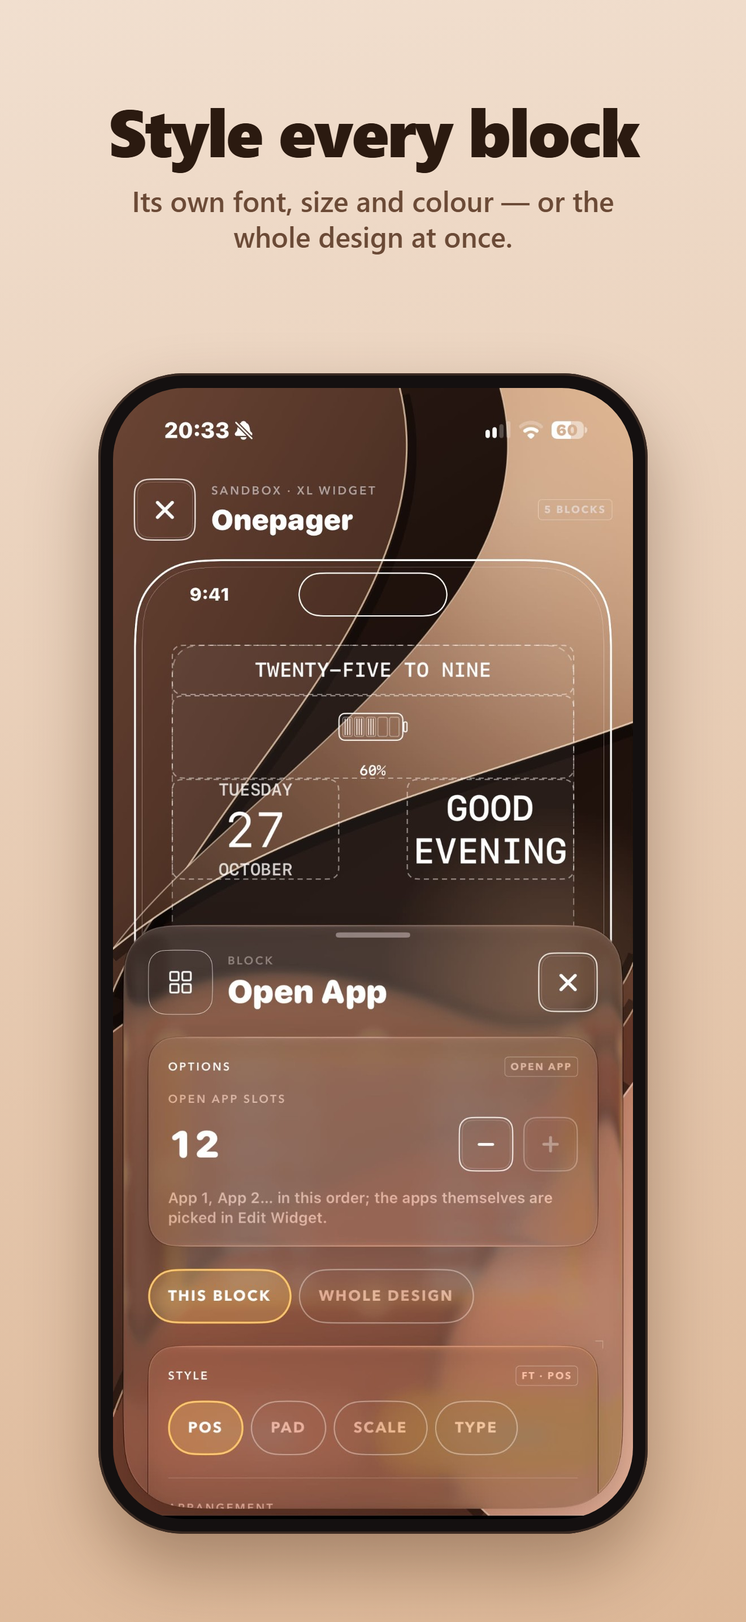
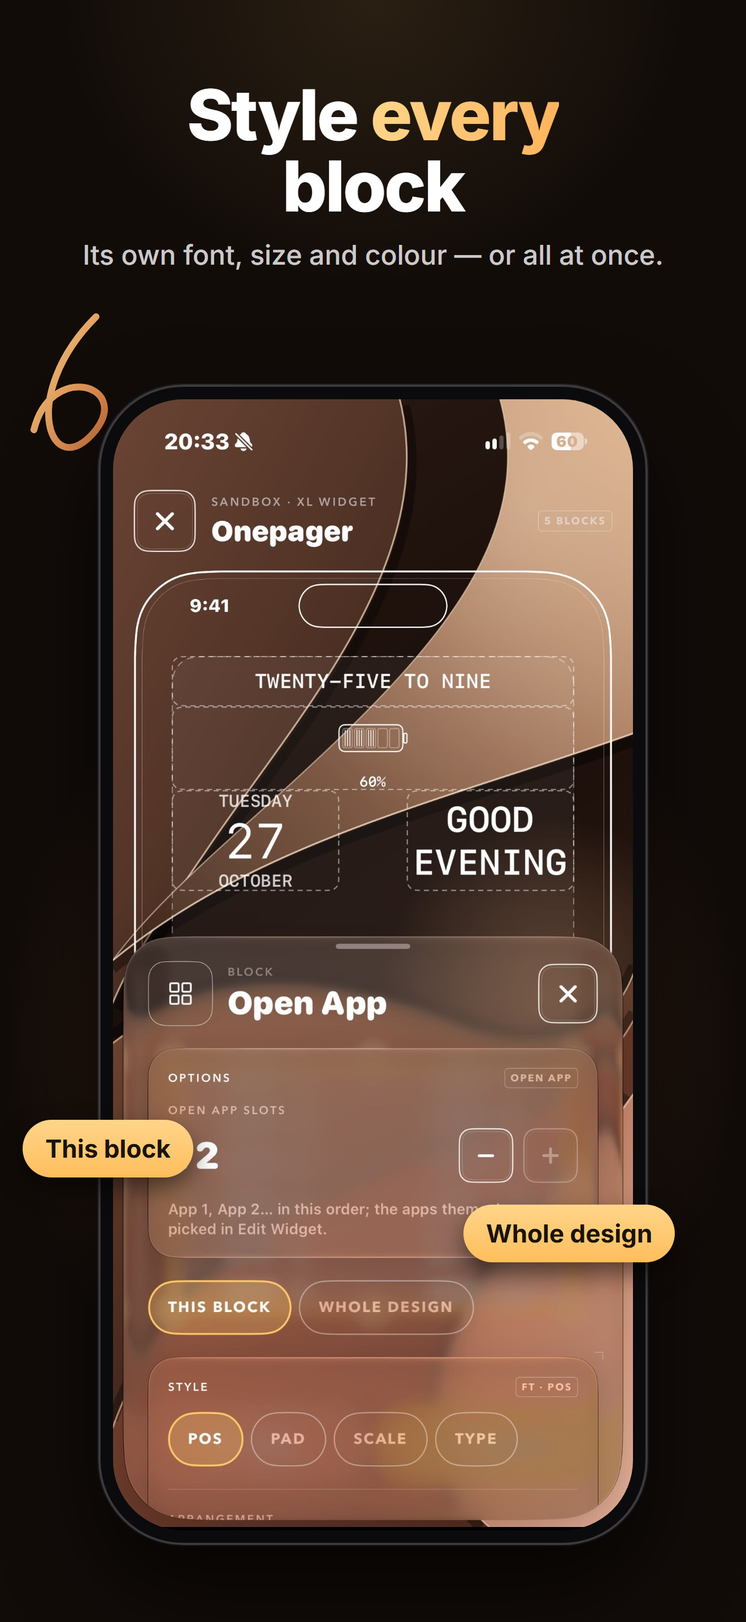
Screenshots v2 in the listing's style (dark stage, amber ribbon and pills); 1206 x 2622 copies

diff --git a/AppStore/screenshots/v2/src/1-designer.html b/AppStore/screenshots/v2/src/1-designer.html
@@ -1,25 +1,27 @@
-<!doctype html>
-<html><head><meta charset="utf-8"><title>Build your own widget</title>
+<!doctype html><html lang="en"><head><meta charset="utf-8"><title>1-designer</title>
+<link rel="stylesheet" href="https://fonts.googleapis.com/css2?family=Inter:wght@500;700;800&display=swap">
 <style>
-  html, body { margin: 0; width: 1320px; height: 2868px; overflow: hidden; }
-  body {
-    background: linear-gradient(170deg, #F3E3D3 0%, #E7C9AE 100%);
-    font-family: "Segoe UI", "SF Pro Display", Arial, sans-serif;
-    color: #2B1A10;
-    position: relative;
-  }
-  .copy { position: absolute; top: 170px; left: 110px; right: 110px; text-align: center; }
-  h1 { margin: 0; font-size: 118px; line-height: 1.02; font-weight: 900; letter-spacing: -3px; }
-  p { margin: 34px auto 0; max-width: 1000px; font-size: 50px; line-height: 1.25; font-weight: 600; color: #6B4A36; }
-  .phone {
-    position: absolute; left: 50%; top: 660px; transform: translateX(-50%);
-    width: 920px; height: 2000px; padding: 26px;
-    background: #141010; border-radius: 150px;
-    box-shadow: 0 60px 120px rgba(60, 30, 10, 0.35), 0 0 0 4px #3A2A22 inset;
-  }
-  .phone img { display: block; width: 920px; height: 2000px; border-radius: 126px; }
-</style></head>
-<body>
-  <div class="copy"><h1>Build your own widget</h1><p>Clocks, dates, greetings and up to 12 apps — placed where you want them.</p></div>
-  <div class="phone"><img src="../raw/1-designer.jpg" alt=""></div>
+*{box-sizing:border-box}
+body{margin:0;width:1320px;height:2868px;overflow:hidden;position:relative;font-family:Inter,-apple-system,sans-serif;color:#fff;
+ background:radial-gradient(70% 38% at 50% 64%,rgba(214,120,70,.30) 0%,rgba(214,120,70,0) 70%),radial-gradient(60% 25% at 50% 0%,rgba(255,199,102,.10) 0%,rgba(255,199,102,0) 70%),#120c09}
+.head{position:absolute;top:140px;left:0;right:0;text-align:center;padding:0 70px;z-index:6}
+h1{font-size:124px;line-height:1.02;font-weight:800;letter-spacing:-3.5px;margin:0}
+h1 em{font-style:normal;background:linear-gradient(90deg,#FFD58A,#FFB45C);-webkit-background-clip:text;background-clip:text;color:transparent}
+.sub{font-size:48px;line-height:1.25;margin:28px 0 0;color:rgba(255,255,255,.78);font-weight:500}
+.ribbon{position:absolute;inset:0;z-index:1;pointer-events:none}
+.phone{position:absolute;left:174px;top:640px;width:972px;height:2052px;border-radius:150px;background:#0b0b0d;padding:26px;z-index:2;
+ box-shadow:0 80px 160px rgba(0,0,0,.65),0 0 0 2px rgba(255,255,255,.08),inset 0 0 0 4px #3b3a3f}
+.phone img{display:block;width:920px;height:2000px;border-radius:124px}
+.pill{position:absolute;z-index:8;padding:24px 40px;border-radius:999px;font-size:44px;font-weight:700;white-space:nowrap;box-shadow:0 20px 44px rgba(0,0,0,.5);
+ background:linear-gradient(180deg,#FFD58A,#FFBE5C);color:#1A1306}
+.badges{position:absolute;left:0;right:0;top:2740px;display:flex;justify-content:center;gap:22px;z-index:8}
+.badges span{padding:18px 32px;border-radius:999px;font-size:36px;font-weight:700;background:rgba(18,12,9,.85);border:2px solid rgba(255,255,255,.22);color:#fff}
+.badges span b{color:#FFC766}
+</style></head><body>
+<svg class="ribbon" width="1320" height="2868" viewBox="0 0 1320 2868"><defs><linearGradient id="rb" x1="0" y1="0" x2="1" y2="1"><stop offset="0" stop-color="#FFD58A"/><stop offset="1" stop-color="#D9783E"/></linearGradient></defs><path d="M1150 560 C 1290 700, 1230 860, 1150 760 C 1090 680, 1230 640, 1260 760" fill="none" stroke="url(#rb)" stroke-width="12" stroke-linecap="round" opacity=".95"/></svg>
+<div class="head"><h1>Build <em>your own</em><br>widget</h1><p class="sub">Clocks, dates, greetings and up to 12 apps.</p></div>
+<div class="phone"><img src="../raw/1-designer.jpg" alt=""></div>
+<div class="pill" style="left:760px;top:1180px">Drag &#183; resize &#183; save</div>
+<div class="pill" style="left:40px;top:2140px">Up to 12 apps</div>
+<div class="badges"><span><b>iOS 27</b></span><span>Liquid Glass</span><span>No ads</span></div>
 </body></html>

diff --git a/AppStore/screenshots/v2/src/5-settings.html b/AppStore/screenshots/v2/src/5-settings.html
@@ -1,25 +1,26 @@
-<!doctype html>
-<html><head><meta charset="utf-8"><title>Matched to your wallpaper</title>
+<!doctype html><html lang="en"><head><meta charset="utf-8"><title>5-settings</title>
+<link rel="stylesheet" href="https://fonts.googleapis.com/css2?family=Inter:wght@500;700;800&display=swap">
 <style>
-  html, body { margin: 0; width: 1320px; height: 2868px; overflow: hidden; }
-  body {
-    background: linear-gradient(170deg, #F3E4D6 0%, #E0BE9F 100%);
-    font-family: "Segoe UI", "SF Pro Display", Arial, sans-serif;
-    color: #2B1A10;
-    position: relative;
-  }
-  .copy { position: absolute; top: 170px; left: 110px; right: 110px; text-align: center; }
-  h1 { margin: 0; font-size: 118px; line-height: 1.02; font-weight: 900; letter-spacing: -3px; }
-  p { margin: 34px auto 0; max-width: 1000px; font-size: 50px; line-height: 1.25; font-weight: 600; color: #6B4A36; }
-  .phone {
-    position: absolute; left: 50%; top: 660px; transform: translateX(-50%);
-    width: 920px; height: 2000px; padding: 26px;
-    background: #141010; border-radius: 150px;
-    box-shadow: 0 60px 120px rgba(60, 30, 10, 0.35), 0 0 0 4px #3A2A22 inset;
-  }
-  .phone img { display: block; width: 920px; height: 2000px; border-radius: 126px; }
-</style></head>
-<body>
-  <div class="copy"><h1>Matched to your wallpaper</h1><p>Two screenshots, and every widget blends into your Home Screen.</p></div>
-  <div class="phone"><img src="../raw/5-settings.jpg" alt=""></div>
+*{box-sizing:border-box}
+body{margin:0;width:1320px;height:2868px;overflow:hidden;position:relative;font-family:Inter,-apple-system,sans-serif;color:#fff;
+ background:radial-gradient(70% 38% at 50% 64%,rgba(214,120,70,.30) 0%,rgba(214,120,70,0) 70%),radial-gradient(60% 25% at 50% 0%,rgba(255,199,102,.10) 0%,rgba(255,199,102,0) 70%),#120c09}
+.head{position:absolute;top:140px;left:0;right:0;text-align:center;padding:0 70px;z-index:6}
+h1{font-size:124px;line-height:1.02;font-weight:800;letter-spacing:-3.5px;margin:0}
+h1 em{font-style:normal;background:linear-gradient(90deg,#FFD58A,#FFB45C);-webkit-background-clip:text;background-clip:text;color:transparent}
+.sub{font-size:48px;line-height:1.25;margin:28px 0 0;color:rgba(255,255,255,.78);font-weight:500}
+.ribbon{position:absolute;inset:0;z-index:1;pointer-events:none}
+.phone{position:absolute;left:174px;top:640px;width:972px;height:2052px;border-radius:150px;background:#0b0b0d;padding:26px;z-index:2;
+ box-shadow:0 80px 160px rgba(0,0,0,.65),0 0 0 2px rgba(255,255,255,.08),inset 0 0 0 4px #3b3a3f}
+.phone img{display:block;width:920px;height:2000px;border-radius:124px}
+.pill{position:absolute;z-index:8;padding:24px 40px;border-radius:999px;font-size:44px;font-weight:700;white-space:nowrap;box-shadow:0 20px 44px rgba(0,0,0,.5);
+ background:linear-gradient(180deg,#FFD58A,#FFBE5C);color:#1A1306}
+.badges{position:absolute;left:0;right:0;top:2740px;display:flex;justify-content:center;gap:22px;z-index:8}
+.badges span{padding:18px 32px;border-radius:999px;font-size:36px;font-weight:700;background:rgba(18,12,9,.85);border:2px solid rgba(255,255,255,.22);color:#fff}
+.badges span b{color:#FFC766}
+</style></head><body>
+<svg class="ribbon" width="1320" height="2868" viewBox="0 0 1320 2868"><defs><linearGradient id="rb" x1="0" y1="0" x2="1" y2="1"><stop offset="0" stop-color="#FFD58A"/><stop offset="1" stop-color="#D9783E"/></linearGradient></defs><path d="M1150 560 C 1290 700, 1230 860, 1150 760 C 1090 680, 1230 640, 1260 760" fill="none" stroke="url(#rb)" stroke-width="12" stroke-linecap="round" opacity=".95"/></svg>
+<div class="head"><h1>Matched to your<br><em>wallpaper</em></h1><p class="sub">Two screenshots, and every widget blends in.</p></div>
+<div class="phone"><img src="../raw/5-settings.jpg" alt=""></div>
+<div class="pill" style="left:790px;top:1520px">Light &amp; Dark Mode</div>
+<div class="badges"><span>No account</span><span>No tracking</span><span><b>Public API</b></span></div>
 </body></html>

diff --git a/AppStore/screenshots/v2/src/2-block-style.html b/AppStore/screenshots/v2/src/2-block-style.html
@@ -1,25 +1,27 @@
-<!doctype html>
-<html><head><meta charset="utf-8"><title>Style every block</title>
+<!doctype html><html lang="en"><head><meta charset="utf-8"><title>2-block-style</title>
+<link rel="stylesheet" href="https://fonts.googleapis.com/css2?family=Inter:wght@500;700;800&display=swap">
 <style>
-  html, body { margin: 0; width: 1320px; height: 2868px; overflow: hidden; }
-  body {
-    background: linear-gradient(170deg, #F1DFCF 0%, #DDB898 100%);
-    font-family: "Segoe UI", "SF Pro Display", Arial, sans-serif;
-    color: #2B1A10;
-    position: relative;
-  }
-  .copy { position: absolute; top: 170px; left: 110px; right: 110px; text-align: center; }
-  h1 { margin: 0; font-size: 118px; line-height: 1.02; font-weight: 900; letter-spacing: -3px; }
-  p { margin: 34px auto 0; max-width: 1000px; font-size: 50px; line-height: 1.25; font-weight: 600; color: #6B4A36; }
-  .phone {
-    position: absolute; left: 50%; top: 660px; transform: translateX(-50%);
-    width: 920px; height: 2000px; padding: 26px;
-    background: #141010; border-radius: 150px;
-    box-shadow: 0 60px 120px rgba(60, 30, 10, 0.35), 0 0 0 4px #3A2A22 inset;
-  }
-  .phone img { display: block; width: 920px; height: 2000px; border-radius: 126px; }
-</style></head>
-<body>
-  <div class="copy"><h1>Style every block</h1><p>Its own font, size and colour — or the whole design at once.</p></div>
-  <div class="phone"><img src="../raw/2-block-style.jpg" alt=""></div>
+*{box-sizing:border-box}
+body{margin:0;width:1320px;height:2868px;overflow:hidden;position:relative;font-family:Inter,-apple-system,sans-serif;color:#fff;
+ background:radial-gradient(70% 38% at 50% 64%,rgba(214,120,70,.30) 0%,rgba(214,120,70,0) 70%),radial-gradient(60% 25% at 50% 0%,rgba(255,199,102,.10) 0%,rgba(255,199,102,0) 70%),#120c09}
+.head{position:absolute;top:140px;left:0;right:0;text-align:center;padding:0 70px;z-index:6}
+h1{font-size:124px;line-height:1.02;font-weight:800;letter-spacing:-3.5px;margin:0}
+h1 em{font-style:normal;background:linear-gradient(90deg,#FFD58A,#FFB45C);-webkit-background-clip:text;background-clip:text;color:transparent}
+.sub{font-size:48px;line-height:1.25;margin:28px 0 0;color:rgba(255,255,255,.78);font-weight:500}
+.ribbon{position:absolute;inset:0;z-index:1;pointer-events:none}
+.phone{position:absolute;left:174px;top:680px;width:972px;height:2052px;border-radius:150px;background:#0b0b0d;padding:26px;z-index:2;
+ box-shadow:0 80px 160px rgba(0,0,0,.65),0 0 0 2px rgba(255,255,255,.08),inset 0 0 0 4px #3b3a3f}
+.phone img{display:block;width:920px;height:2000px;border-radius:124px}
+.pill{position:absolute;z-index:8;padding:24px 40px;border-radius:999px;font-size:44px;font-weight:700;white-space:nowrap;box-shadow:0 20px 44px rgba(0,0,0,.5);
+ background:linear-gradient(180deg,#FFD58A,#FFBE5C);color:#1A1306}
+.badges{position:absolute;left:0;right:0;top:2740px;display:flex;justify-content:center;gap:22px;z-index:8}
+.badges span{padding:18px 32px;border-radius:999px;font-size:36px;font-weight:700;background:rgba(18,12,9,.85);border:2px solid rgba(255,255,255,.22);color:#fff}
+.badges span b{color:#FFC766}
+</style></head><body>
+<svg class="ribbon" width="1320" height="2868" viewBox="0 0 1320 2868"><defs><linearGradient id="rb" x1="0" y1="0" x2="1" y2="1"><stop offset="0" stop-color="#FFD58A"/><stop offset="1" stop-color="#D9783E"/></linearGradient></defs><path d="M170 560 C 30 700, 90 860, 170 760 C 230 680, 90 640, 60 760" fill="none" stroke="url(#rb)" stroke-width="12" stroke-linecap="round" opacity=".95"/></svg>
+<div class="head"><h1>Style <em>every</em><br>block</h1><p class="sub">Its own font, size and colour — or all at once.</p></div>
+<div class="phone"><img src="../raw/2-block-style.jpg" alt=""></div>
+<div class="pill" style="left:40px;top:1980px">This block</div>
+<div class="pill" style="left:820px;top:2130px">Whole design</div>
+
 </body></html>

diff --git a/AppStore/screenshots/v2/src/3-templates.html b/AppStore/screenshots/v2/src/3-templates.html
@@ -1,25 +1,26 @@
-<!doctype html>
-<html><head><meta charset="utf-8"><title>Start from a template</title>
+<!doctype html><html lang="en"><head><meta charset="utf-8"><title>3-templates</title>
+<link rel="stylesheet" href="https://fonts.googleapis.com/css2?family=Inter:wght@500;700;800&display=swap">
 <style>
-  html, body { margin: 0; width: 1320px; height: 2868px; overflow: hidden; }
-  body {
-    background: linear-gradient(170deg, #F4E6D8 0%, #E3C2A4 100%);
-    font-family: "Segoe UI", "SF Pro Display", Arial, sans-serif;
-    color: #2B1A10;
-    position: relative;
-  }
-  .copy { position: absolute; top: 170px; left: 110px; right: 110px; text-align: center; }
-  h1 { margin: 0; font-size: 118px; line-height: 1.02; font-weight: 900; letter-spacing: -3px; }
-  p { margin: 34px auto 0; max-width: 1000px; font-size: 50px; line-height: 1.25; font-weight: 600; color: #6B4A36; }
-  .phone {
-    position: absolute; left: 50%; top: 660px; transform: translateX(-50%);
-    width: 920px; height: 2000px; padding: 26px;
-    background: #141010; border-radius: 150px;
-    box-shadow: 0 60px 120px rgba(60, 30, 10, 0.35), 0 0 0 4px #3A2A22 inset;
-  }
-  .phone img { display: block; width: 920px; height: 2000px; border-radius: 126px; }
-</style></head>
-<body>
-  <div class="copy"><h1>Start from a template</h1><p>Blank, clock hubs, app grids, type specimens and more.</p></div>
-  <div class="phone"><img src="../raw/3-templates.jpg" alt=""></div>
+*{box-sizing:border-box}
+body{margin:0;width:1320px;height:2868px;overflow:hidden;position:relative;font-family:Inter,-apple-system,sans-serif;color:#fff;
+ background:radial-gradient(70% 38% at 50% 64%,rgba(214,120,70,.30) 0%,rgba(214,120,70,0) 70%),radial-gradient(60% 25% at 50% 0%,rgba(255,199,102,.10) 0%,rgba(255,199,102,0) 70%),#120c09}
+.head{position:absolute;top:140px;left:0;right:0;text-align:center;padding:0 70px;z-index:6}
+h1{font-size:124px;line-height:1.02;font-weight:800;letter-spacing:-3.5px;margin:0}
+h1 em{font-style:normal;background:linear-gradient(90deg,#FFD58A,#FFB45C);-webkit-background-clip:text;background-clip:text;color:transparent}
+.sub{font-size:48px;line-height:1.25;margin:28px 0 0;color:rgba(255,255,255,.78);font-weight:500}
+.ribbon{position:absolute;inset:0;z-index:1;pointer-events:none}
+.phone{position:absolute;left:174px;top:680px;width:972px;height:2052px;border-radius:150px;background:#0b0b0d;padding:26px;z-index:2;
+ box-shadow:0 80px 160px rgba(0,0,0,.65),0 0 0 2px rgba(255,255,255,.08),inset 0 0 0 4px #3b3a3f}
+.phone img{display:block;width:920px;height:2000px;border-radius:124px}
+.pill{position:absolute;z-index:8;padding:24px 40px;border-radius:999px;font-size:44px;font-weight:700;white-space:nowrap;box-shadow:0 20px 44px rgba(0,0,0,.5);
+ background:linear-gradient(180deg,#FFD58A,#FFBE5C);color:#1A1306}
+.badges{position:absolute;left:0;right:0;top:2740px;display:flex;justify-content:center;gap:22px;z-index:8}
+.badges span{padding:18px 32px;border-radius:999px;font-size:36px;font-weight:700;background:rgba(18,12,9,.85);border:2px solid rgba(255,255,255,.22);color:#fff}
+.badges span b{color:#FFC766}
+</style></head><body>
+<svg class="ribbon" width="1320" height="2868" viewBox="0 0 1320 2868"><defs><linearGradient id="rb" x1="0" y1="0" x2="1" y2="1"><stop offset="0" stop-color="#FFD58A"/><stop offset="1" stop-color="#D9783E"/></linearGradient></defs><path d="M1150 560 C 1290 700, 1230 860, 1150 760 C 1090 680, 1230 640, 1260 760" fill="none" stroke="url(#rb)" stroke-width="12" stroke-linecap="round" opacity=".95"/></svg>
+<div class="head"><h1>Start from a<br><em>template</em></h1><p class="sub">Blank, clock hubs, app grids, type and more.</p></div>
+<div class="phone"><img src="../raw/3-templates.jpg" alt=""></div>
+<div class="pill" style="left:780px;top:1500px">Ready in one tap</div>
+
 </body></html>

diff --git a/AppStore/screenshots/v2/src/4-home.html b/AppStore/screenshots/v2/src/4-home.html
@@ -1,25 +1,26 @@
-<!doctype html>
-<html><head><meta charset="utf-8"><title>All your designs in one place</title>
+<!doctype html><html lang="en"><head><meta charset="utf-8"><title>4-home</title>
+<link rel="stylesheet" href="https://fonts.googleapis.com/css2?family=Inter:wght@500;700;800&display=swap">
 <style>
-  html, body { margin: 0; width: 1320px; height: 2868px; overflow: hidden; }
-  body {
-    background: linear-gradient(170deg, #F2E1D1 0%, #D9B392 100%);
-    font-family: "Segoe UI", "SF Pro Display", Arial, sans-serif;
-    color: #2B1A10;
-    position: relative;
-  }
-  .copy { position: absolute; top: 170px; left: 110px; right: 110px; text-align: center; }
-  h1 { margin: 0; font-size: 118px; line-height: 1.02; font-weight: 900; letter-spacing: -3px; }
-  p { margin: 34px auto 0; max-width: 1000px; font-size: 50px; line-height: 1.25; font-weight: 600; color: #6B4A36; }
-  .phone {
-    position: absolute; left: 50%; top: 660px; transform: translateX(-50%);
-    width: 920px; height: 2000px; padding: 26px;
-    background: #141010; border-radius: 150px;
-    box-shadow: 0 60px 120px rgba(60, 30, 10, 0.35), 0 0 0 4px #3A2A22 inset;
-  }
-  .phone img { display: block; width: 920px; height: 2000px; border-radius: 126px; }
-</style></head>
-<body>
-  <div class="copy"><h1>All your designs in one place</h1><p>Pick one per widget: touch and hold › Edit Widget.</p></div>
-  <div class="phone"><img src="../raw/4-home.jpg" alt=""></div>
+*{box-sizing:border-box}
+body{margin:0;width:1320px;height:2868px;overflow:hidden;position:relative;font-family:Inter,-apple-system,sans-serif;color:#fff;
+ background:radial-gradient(70% 38% at 50% 64%,rgba(214,120,70,.30) 0%,rgba(214,120,70,0) 70%),radial-gradient(60% 25% at 50% 0%,rgba(255,199,102,.10) 0%,rgba(255,199,102,0) 70%),#120c09}
+.head{position:absolute;top:140px;left:0;right:0;text-align:center;padding:0 70px;z-index:6}
+h1{font-size:124px;line-height:1.02;font-weight:800;letter-spacing:-3.5px;margin:0}
+h1 em{font-style:normal;background:linear-gradient(90deg,#FFD58A,#FFB45C);-webkit-background-clip:text;background-clip:text;color:transparent}
+.sub{font-size:48px;line-height:1.25;margin:28px 0 0;color:rgba(255,255,255,.78);font-weight:500}
+.ribbon{position:absolute;inset:0;z-index:1;pointer-events:none}
+.phone{position:absolute;left:174px;top:680px;width:972px;height:2052px;border-radius:150px;background:#0b0b0d;padding:26px;z-index:2;
+ box-shadow:0 80px 160px rgba(0,0,0,.65),0 0 0 2px rgba(255,255,255,.08),inset 0 0 0 4px #3b3a3f}
+.phone img{display:block;width:920px;height:2000px;border-radius:124px}
+.pill{position:absolute;z-index:8;padding:24px 40px;border-radius:999px;font-size:44px;font-weight:700;white-space:nowrap;box-shadow:0 20px 44px rgba(0,0,0,.5);
+ background:linear-gradient(180deg,#FFD58A,#FFBE5C);color:#1A1306}
+.badges{position:absolute;left:0;right:0;top:2740px;display:flex;justify-content:center;gap:22px;z-index:8}
+.badges span{padding:18px 32px;border-radius:999px;font-size:36px;font-weight:700;background:rgba(18,12,9,.85);border:2px solid rgba(255,255,255,.22);color:#fff}
+.badges span b{color:#FFC766}
+</style></head><body>
+<svg class="ribbon" width="1320" height="2868" viewBox="0 0 1320 2868"><defs><linearGradient id="rb" x1="0" y1="0" x2="1" y2="1"><stop offset="0" stop-color="#FFD58A"/><stop offset="1" stop-color="#D9783E"/></linearGradient></defs><path d="M170 560 C 30 700, 90 860, 170 760 C 230 680, 90 640, 60 760" fill="none" stroke="url(#rb)" stroke-width="12" stroke-linecap="round" opacity=".95"/></svg>
+<div class="head"><h1>All your designs,<br><em>one place</em></h1><p class="sub">Pick one per widget in Edit Widget.</p></div>
+<div class="phone"><img src="../raw/4-home.jpg" alt=""></div>
+<div class="pill" style="left:40px;top:1300px">Live preview</div>
+
 </body></html>

diff --git a/AppStore/screenshots/v2/make.py b/AppStore/screenshots/v2/make.py
@@ -1,49 +1,75 @@
-"""App Store screenshots (6.9", 1320 x 2868) from real app screens.
+"""App Store screenshots from real app screens, in the listing's own style.
 
-Each shot: a bold headline and one short line on a warm background, and the app
-screen (raw/*.jpg, 920 x 2000) at its native size in a phone frame. Writes
-src/*.html; render them with render.sh (headless Chrome).
+Same look as AppStore/screenshots/src: a dark warm stage, a white headline with one
+amber word, an amber ribbon, amber callout pills and a phone. The phone holds a real
+screen (raw/*.jpg, 920 x 2000) at its native size.
+
+Writes src/*.html (1320 x 2868, the 6.9" size); render.sh renders them and also writes
+1206 x 2622 copies for the "iPhone with Dynamic Island" slot.
 """
 from pathlib import Path
 
 HERE = Path(__file__).parent
 
+# name, headline (one <em> word in amber), line, pills [(text, left, top)], badges,
+# ribbon path
 SHOTS = [
-    ("1-designer", "Build your own widget", "Clocks, dates, greetings and up to 12 apps — placed where you want them.", "#F3E3D3", "#E7C9AE"),
-    ("2-block-style", "Style every block", "Its own font, size and colour — or the whole design at once.", "#F1DFCF", "#DDB898"),
-    ("3-templates", "Start from a template", "Blank, clock hubs, app grids, type specimens and more.", "#F4E6D8", "#E3C2A4"),
-    ("4-home", "All your designs in one place", "Pick one per widget: touch and hold › Edit Widget.", "#F2E1D1", "#D9B392"),
-    ("5-settings", "Matched to your wallpaper", "Two screenshots, and every widget blends into your Home Screen.", "#F3E4D6", "#E0BE9F"),
+    ("1-designer", "Build <em>your own</em><br>widget", "Clocks, dates, greetings and up to 12 apps.",
+     [("Drag &#183; resize &#183; save", 760, 1180), ("Up to 12 apps", 40, 2140)],
+     ["<b>iOS 27</b>", "Liquid Glass", "No ads"],
+     "M1150 560 C 1290 700, 1230 860, 1150 760 C 1090 680, 1230 640, 1260 760"),
+    ("2-block-style", "Style <em>every</em><br>block", "Its own font, size and colour — or all at once.",
+     [("This block", 40, 1980), ("Whole design", 820, 2130)],
+     [],
+     "M170 560 C 30 700, 90 860, 170 760 C 230 680, 90 640, 60 760"),
+    ("3-templates", "Start from a<br><em>template</em>", "Blank, clock hubs, app grids, type and more.",
+     [("Ready in one tap", 780, 1500)],
+     [],
+     "M1150 560 C 1290 700, 1230 860, 1150 760 C 1090 680, 1230 640, 1260 760"),
+    ("4-home", "All your designs,<br><em>one place</em>", "Pick one per widget in Edit Widget.",
+     [("Live preview", 40, 1300)],
+     [],
+     "M170 560 C 30 700, 90 860, 170 760 C 230 680, 90 640, 60 760"),
+    ("5-settings", "Matched to your<br><em>wallpaper</em>", "Two screenshots, and every widget blends in.",
+     [("Light &amp; Dark Mode", 790, 1520)],
+     ["No account", "No tracking", "<b>Public API</b>"],
+     "M1150 560 C 1290 700, 1230 860, 1150 760 C 1090 680, 1230 640, 1260 760"),
 ]
 
-PAGE = """<!doctype html>
-<html><head><meta charset="utf-8"><title>{title}</title>
+PAGE = """<!doctype html><html lang="en"><head><meta charset="utf-8"><title>{name}</title>
+<link rel="stylesheet" href="https://fonts.googleapis.com/css2?family=Inter:wght@500;700;800&display=swap">
 <style>
-  html, body {{ margin: 0; width: 1320px; height: 2868px; overflow: hidden; }}
-  body {{
-    background: linear-gradient(170deg, {top} 0%, {bottom} 100%);
-    font-family: "Segoe UI", "SF Pro Display", Arial, sans-serif;
-    color: #2B1A10;
-    position: relative;
-  }}
-  .copy {{ position: absolute; top: 170px; left: 110px; right: 110px; text-align: center; }}
-  h1 {{ margin: 0; font-size: 118px; line-height: 1.02; font-weight: 900; letter-spacing: -3px; }}
-  p {{ margin: 34px auto 0; max-width: 1000px; font-size: 50px; line-height: 1.25; font-weight: 600; color: #6B4A36; }}
-  .phone {{
-    position: absolute; left: 50%; top: 660px; transform: translateX(-50%);
-    width: 920px; height: 2000px; padding: 26px;
-    background: #141010; border-radius: 150px;
-    box-shadow: 0 60px 120px rgba(60, 30, 10, 0.35), 0 0 0 4px #3A2A22 inset;
-  }}
-  .phone img {{ display: block; width: 920px; height: 2000px; border-radius: 126px; }}
-</style></head>
-<body>
-  <div class="copy"><h1>{title}</h1><p>{line}</p></div>
-  <div class="phone"><img src="../raw/{name}.jpg" alt=""></div>
+*{{box-sizing:border-box}}
+body{{margin:0;width:1320px;height:2868px;overflow:hidden;position:relative;font-family:Inter,-apple-system,sans-serif;color:#fff;
+ background:radial-gradient(70% 38% at 50% 64%,rgba(214,120,70,.30) 0%,rgba(214,120,70,0) 70%),radial-gradient(60% 25% at 50% 0%,rgba(255,199,102,.10) 0%,rgba(255,199,102,0) 70%),#120c09}}
+.head{{position:absolute;top:140px;left:0;right:0;text-align:center;padding:0 70px;z-index:6}}
+h1{{font-size:124px;line-height:1.02;font-weight:800;letter-spacing:-3.5px;margin:0}}
+h1 em{{font-style:normal;background:linear-gradient(90deg,#FFD58A,#FFB45C);-webkit-background-clip:text;background-clip:text;color:transparent}}
+.sub{{font-size:48px;line-height:1.25;margin:28px 0 0;color:rgba(255,255,255,.78);font-weight:500}}
+.ribbon{{position:absolute;inset:0;z-index:1;pointer-events:none}}
+.phone{{position:absolute;left:174px;top:{phone_top}px;width:972px;height:2052px;border-radius:150px;background:#0b0b0d;padding:26px;z-index:2;
+ box-shadow:0 80px 160px rgba(0,0,0,.65),0 0 0 2px rgba(255,255,255,.08),inset 0 0 0 4px #3b3a3f}}
+.phone img{{display:block;width:920px;height:2000px;border-radius:124px}}
+.pill{{position:absolute;z-index:8;padding:24px 40px;border-radius:999px;font-size:44px;font-weight:700;white-space:nowrap;box-shadow:0 20px 44px rgba(0,0,0,.5);
+ background:linear-gradient(180deg,#FFD58A,#FFBE5C);color:#1A1306}}
+.badges{{position:absolute;left:0;right:0;top:2740px;display:flex;justify-content:center;gap:22px;z-index:8}}
+.badges span{{padding:18px 32px;border-radius:999px;font-size:36px;font-weight:700;background:rgba(18,12,9,.85);border:2px solid rgba(255,255,255,.22);color:#fff}}
+.badges span b{{color:#FFC766}}
+</style></head><body>
+<svg class="ribbon" width="1320" height="2868" viewBox="0 0 1320 2868"><defs><linearGradient id="rb" x1="0" y1="0" x2="1" y2="1"><stop offset="0" stop-color="#FFD58A"/><stop offset="1" stop-color="#D9783E"/></linearGradient></defs><path d="{ribbon}" fill="none" stroke="url(#rb)" stroke-width="12" stroke-linecap="round" opacity=".95"/></svg>
+<div class="head"><h1>{title}</h1><p class="sub">{line}</p></div>
+<div class="phone"><img src="../raw/{name}.jpg" alt=""></div>
+{pills}
+{badges}
 </body></html>
 """
 
-for name, title, line, top, bottom in SHOTS:
+for name, title, line, pills, badges, ribbon in SHOTS:
+    pill_html = "\n".join(f'<div class="pill" style="left:{x}px;top:{y}px">{text}</div>' for text, x, y in pills)
+    badge_html = f'<div class="badges">{"".join(f"<span>{b}</span>" for b in badges)}</div>' if badges else ""
+    # With badges the phone sits a little higher so they fit below it.
+    phone_top = 640 if badges else 680
     (HERE / "src" / f"{name}.html").write_text(
-        PAGE.format(name=name, title=title, line=line, top=top, bottom=bottom), encoding="utf-8")
+        PAGE.format(name=name, title=title, line=line, pills=pill_html, badges=badge_html,
+                    ribbon=ribbon, phone_top=phone_top), encoding="utf-8")
     print("wrote", name)
